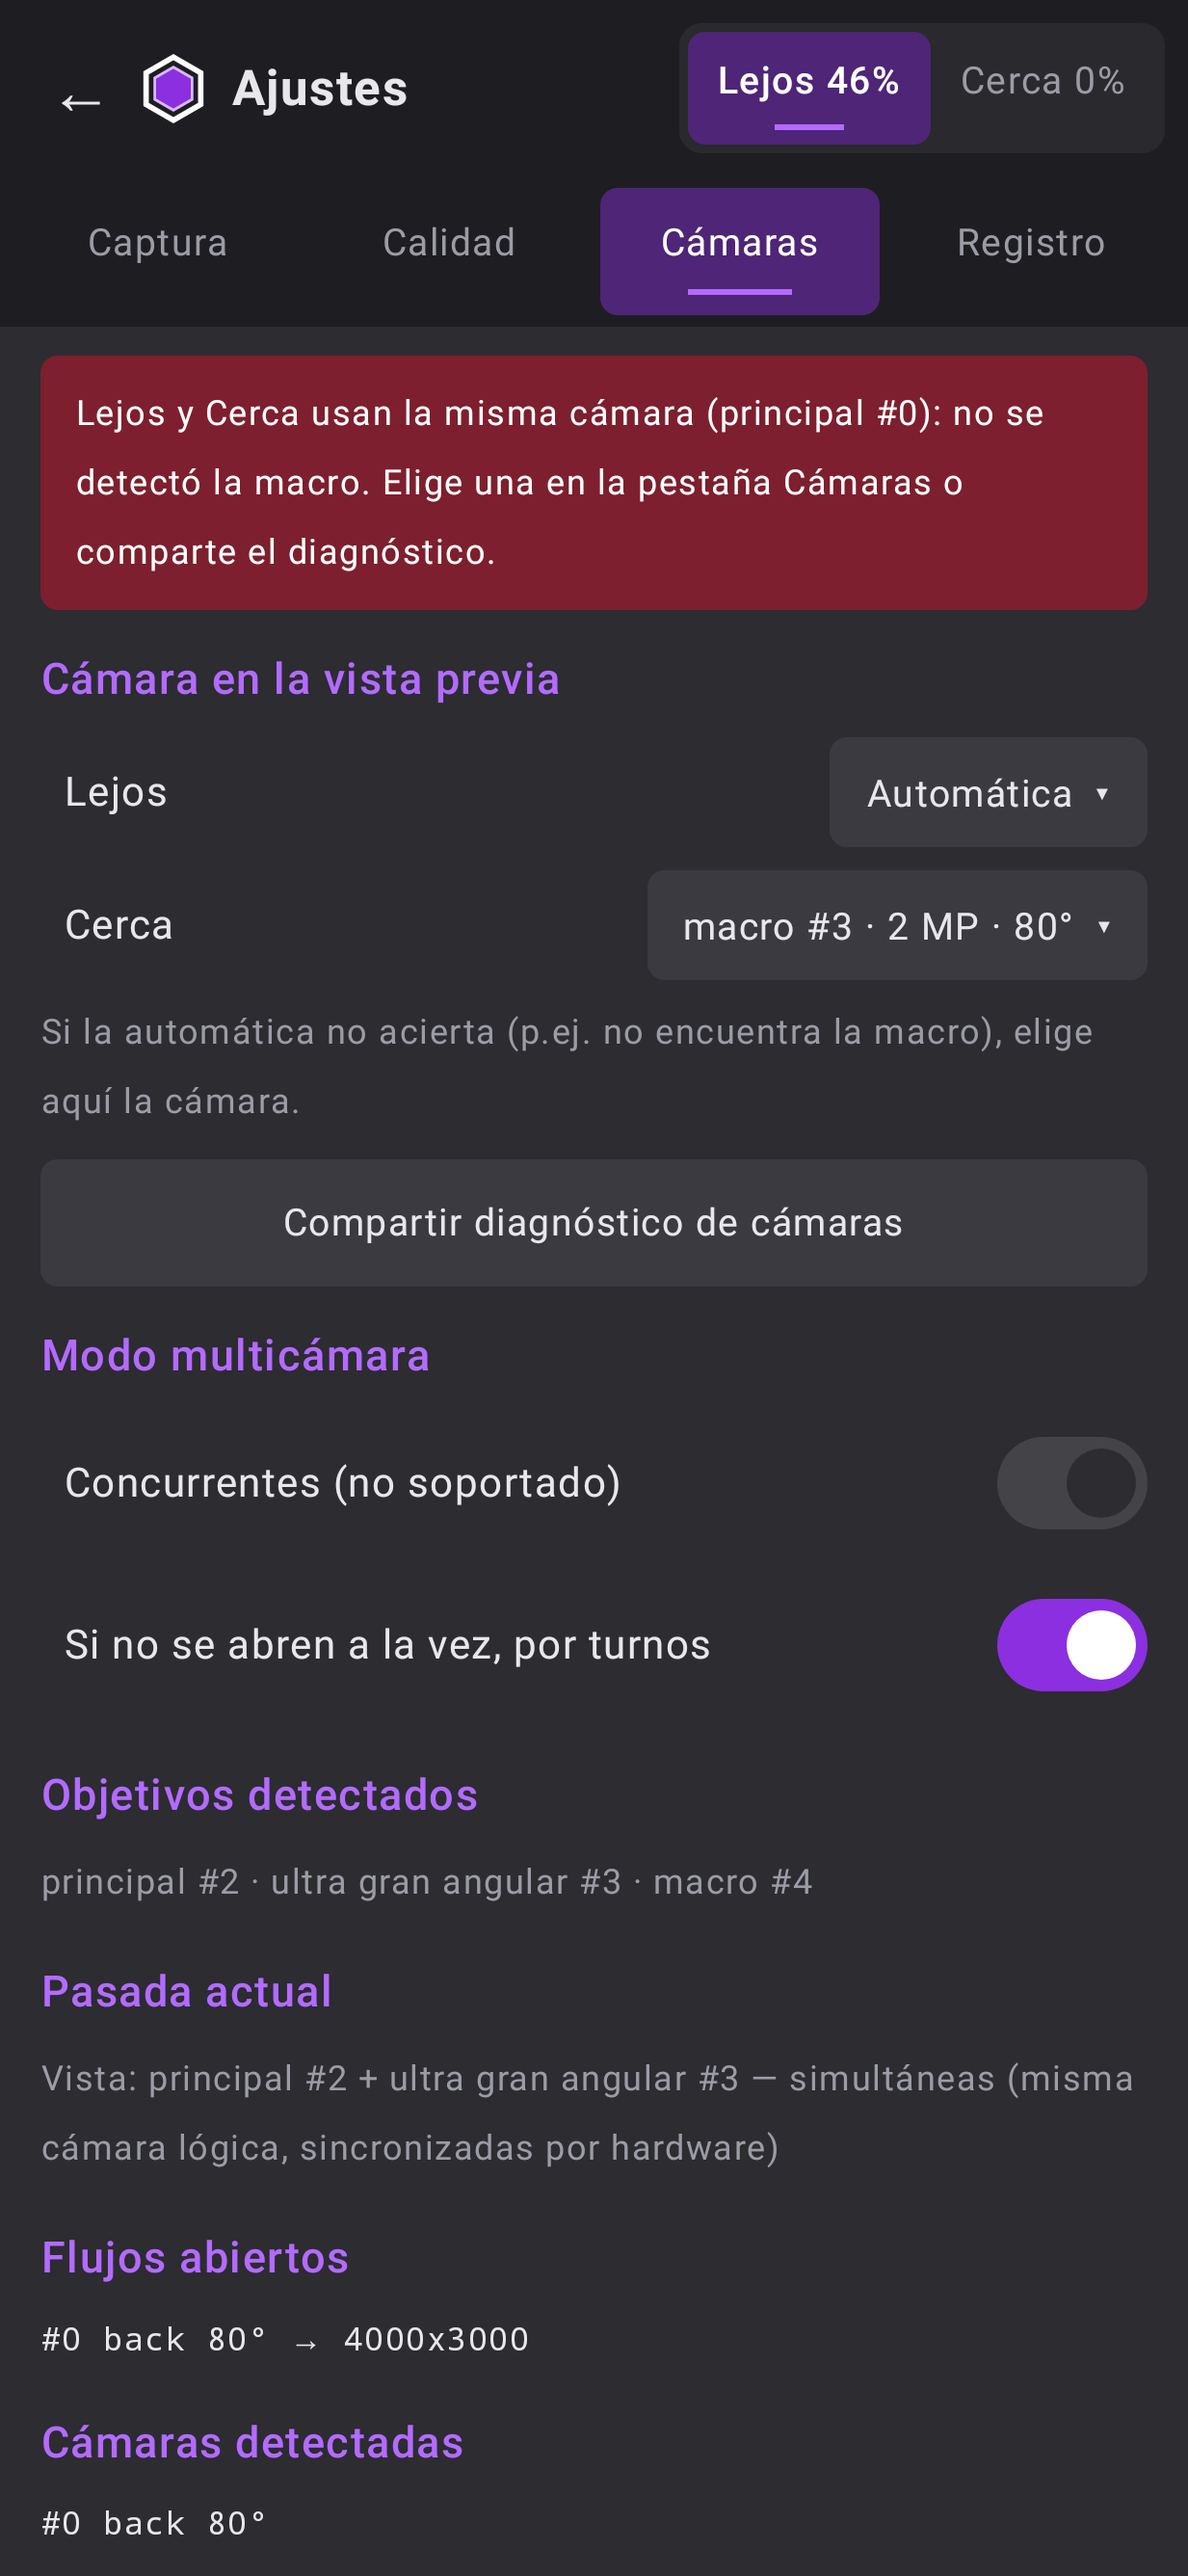
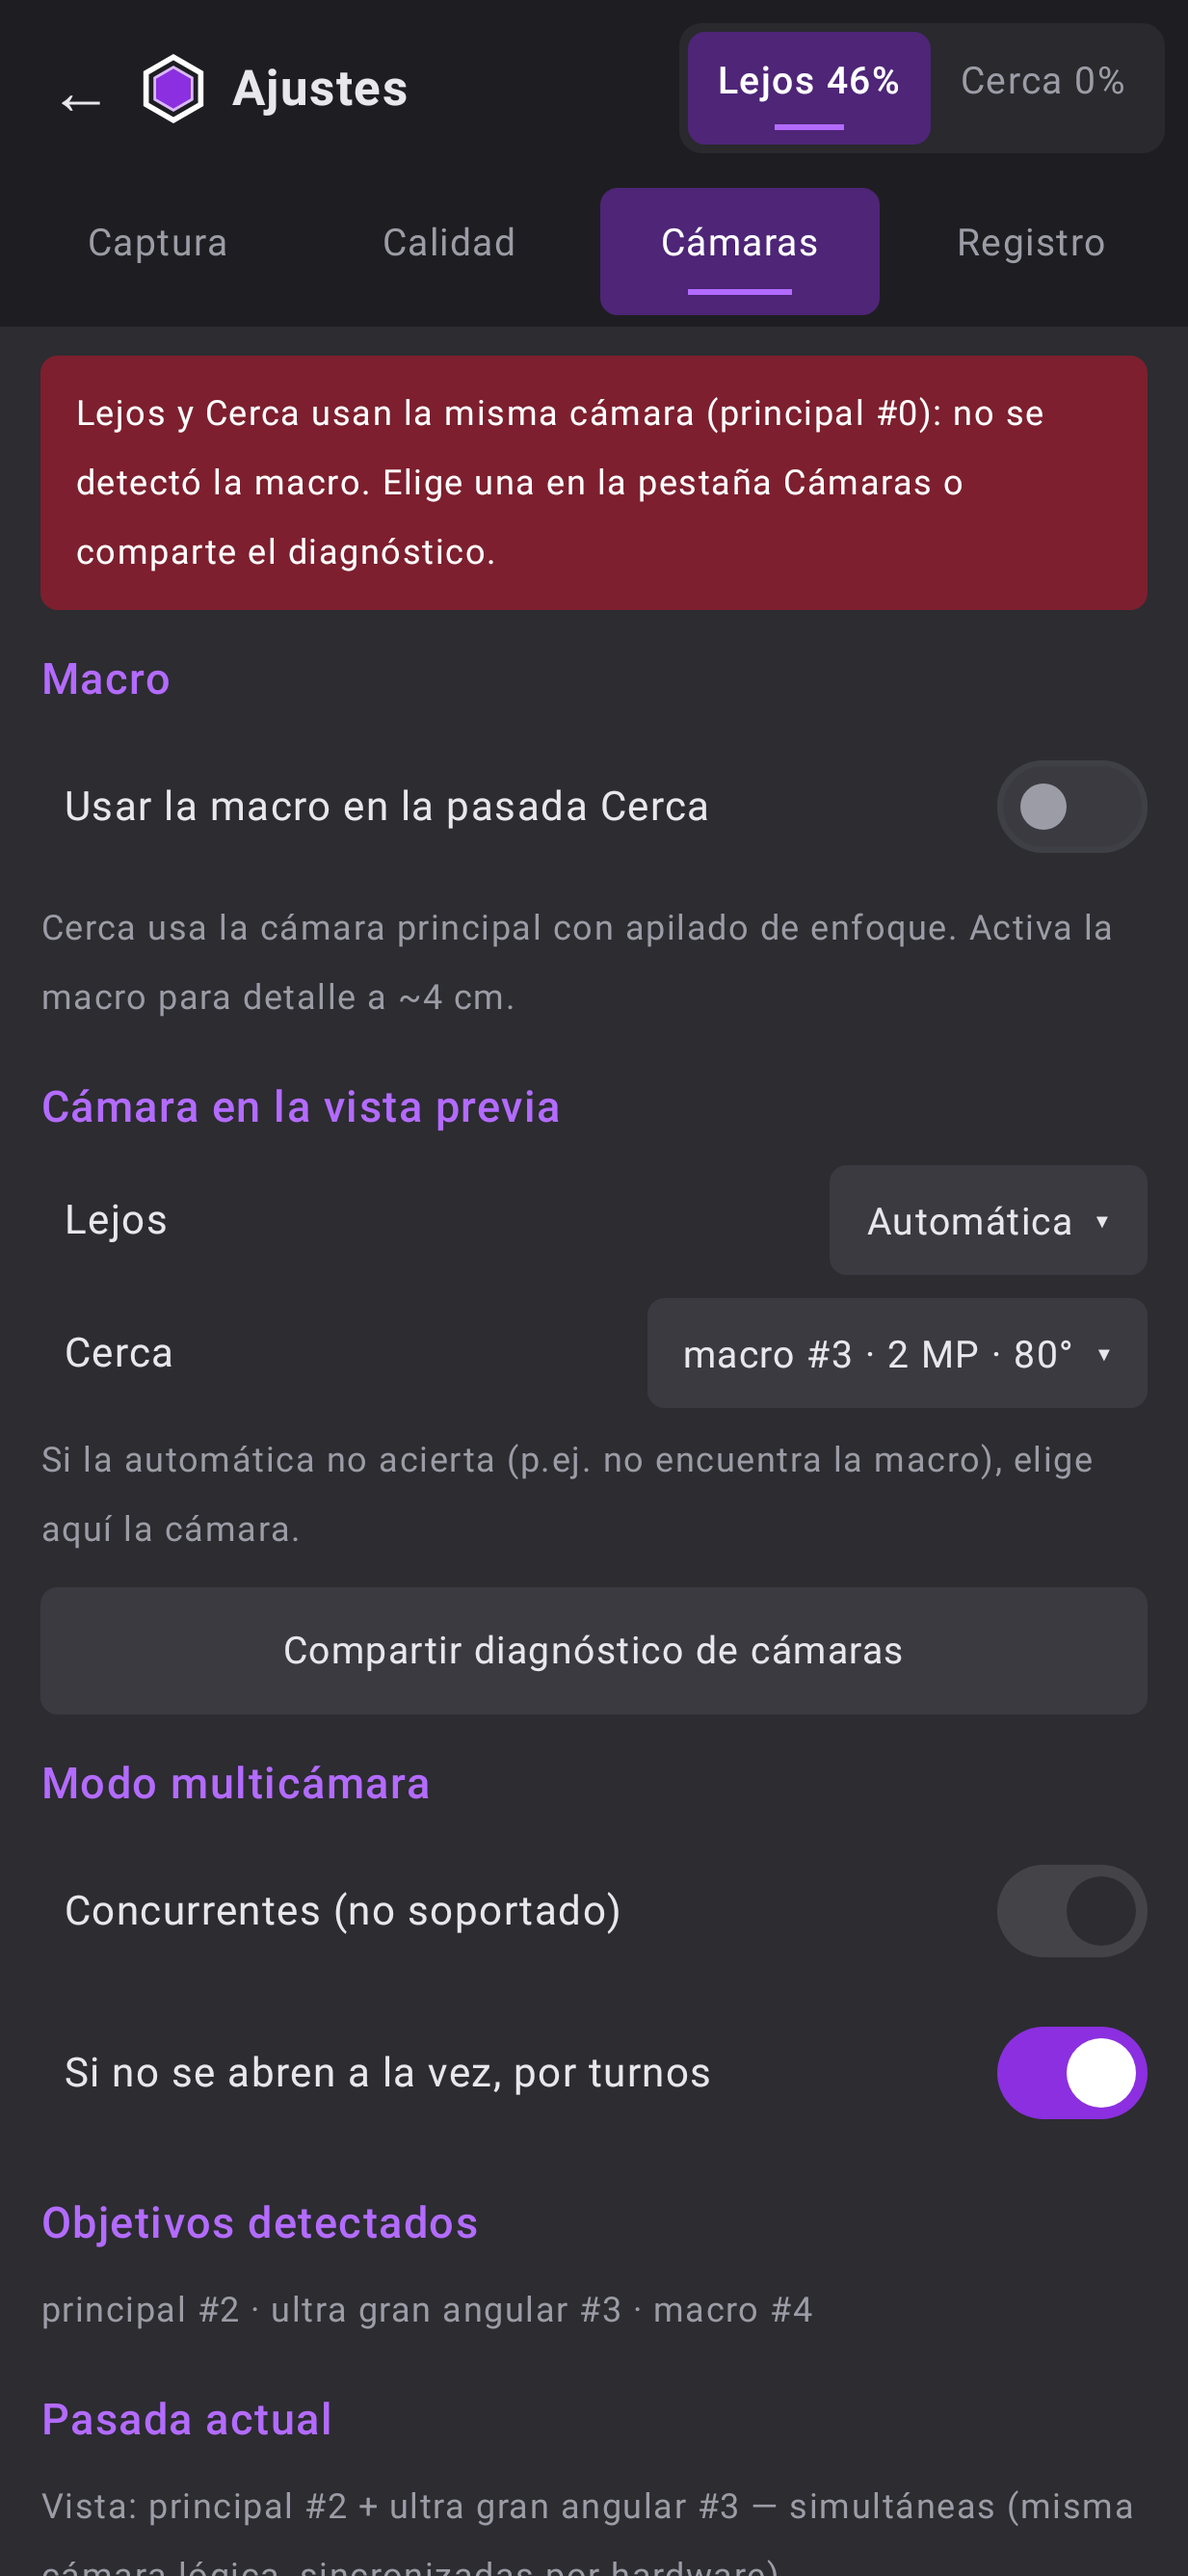
Macro optional (off by default): the near pass uses the main camera
- New setting in Ajustes -> Cámaras 'Usar la macro en la pasada Cerca' (default off)
- Without it, Cerca uses the main camera with focus stacking; with it,
  the macro preview + the main camera firing as before
- No 'both passes use the same camera' warning when the macro is off
- Recorded in session.json (use_macro)

Claude-Session: https://claude.ai/code/session_01QadJfKzbw9ynwc1fqLJ3m8

diff --git a/app/src/main/java/com/tisma/scanner/ui/ScanViewModel.kt b/app/src/main/java/com/tisma/scanner/ui/ScanViewModel.kt
@@ -63,6 +63,8 @@ data class UiState(
     val cameraChoices: List<Pair<String, String>> = emptyList(),
     /** Elección manual de la vista previa por pasada (null = automática). */
     val previewChoice: Map<ScanPass, String?> = emptyMap(),
+    /** Usar la macro en la pasada Cerca (opcional; por defecto Cerca usa la principal). */
+    val useMacro: Boolean = false,
     // --- Precisión de la INS ---
     /** Segundos restantes de la prueba de quietud (0 = no está en marcha). */
     val imuTestRemaining: Int = 0,
@@ -249,10 +251,12 @@ class ScanViewModel(app: Application) : AndroidViewModel(app), MultiCameraContro
 
     /** Papeles con la elección manual aplicada: Lejos cambia la principal, Cerca la macro. */
     private fun rolesFor(p: ScanPass): CameraRoles {
-        val choice = _state.value.previewChoice[p] ?: return roles
+        // Sin la opción de macro, Cerca usa la principal (con apilado de enfoque).
+        val base = if (_state.value.useMacro) roles else roles.copy(macro = null)
+        val choice = _state.value.previewChoice[p] ?: return base
         return when (p) {
-            ScanPass.FAR -> roles.copy(main = choice)
-            ScanPass.CLOSE -> roles.copy(macro = choice)
+            ScanPass.FAR -> base.copy(main = choice)
+            ScanPass.CLOSE -> base.copy(macro = choice)
         }
     }
 
@@ -268,7 +272,8 @@ class ScanViewModel(app: Application) : AndroidViewModel(app), MultiCameraContro
         val other = planFor(if (activePass == ScanPass.FAR) ScanPass.CLOSE else ScanPass.FAR)
         val warning = when {
             plan.previewId == null -> "No se encontró ninguna cámara trasera"
-            plan.previewId == other.previewId ->
+            // Sin macro es lo esperado que ambas pasadas usen la principal.
+            plan.previewId == other.previewId && _state.value.useMacro ->
                 "Lejos y Cerca usan la misma cámara (${roleName(plan.previewId)}): no se detectó " +
                     (if (activePass == ScanPass.CLOSE) "la macro" else "otra cámara") +
                     ". Elige una en la pestaña Cámaras o comparte el diagnóstico."
@@ -277,6 +282,14 @@ class ScanViewModel(app: Application) : AndroidViewModel(app), MultiCameraContro
         _state.update { it.copy(rigText = text, rigWarning = warning) }
         if (warning.isNotEmpty()) log(warning)
         return plan
+    }
+
+    override fun setUseMacro(v: Boolean) {
+        _state.update { it.copy(useMacro = v) }
+        if (!sequenceRunning) {
+            val plan = planCurrentPass()
+            if (activePass == ScanPass.CLOSE) viewModelScope.launch { openRig(plan.groups) }
+        }
     }
 
     /** Elegir a mano qué cámara se ve en una pasada (null = automática). */
@@ -524,6 +537,7 @@ class ScanViewModel(app: Application) : AndroidViewModel(app), MultiCameraContro
                 put("part_depth_cm", _state.value.partDepthCm)
                 put("jpeg_quality", _state.value.jpegQuality)
                 put("discard_blurry", _state.value.discardBlurry)
+                put("use_macro", _state.value.useMacro)
                 put("anti_shake_burst", if (_state.value.antiShakeBurst) ANTI_SHAKE_FRAMES else 0)
                 put("max_motion_blur_px", MAX_MOTION_BLUR_PX)
                 put("min_angle_deg", selector.minAngleDeg)

diff --git a/app/src/main/java/com/tisma/scanner/camera/ScanPass.kt b/app/src/main/java/com/tisma/scanner/camera/ScanPass.kt
@@ -4,8 +4,9 @@ package com.tisma.scanner.camera
  * Pasadas de escaneo. Cada una tiene su propia cobertura, ajustes y cámaras:
  *  - LEJOS: la pieza entera en el encuadre (≈2-3× su tamaño). Da la geometría global y une todo.
  *    Vista: principal; dispara también la ultra gran angular (o la tele si no hay). HDR permitido.
- *  - CERCA: detalle (≈4-20 cm). Vista: sólo la macro; dispara también la principal, que apila
- *    enfoques porque la profundidad de campo es de pocos mm. Sin HDR (serían demasiadas fotos).
+ *  - CERCA: detalle (≈10-20 cm). Por defecto, la principal apilando enfoques (la profundidad de
+ *    campo es de pocos mm). Opcional (ajuste "Usar la macro"): vista de la macro a ~4 cm y la
+ *    principal disparando también. Sin HDR (serían demasiadas fotos).
  * Ver PassRigPlanner.
  */
 enum class ScanPass(val label: String, val minAngleDeg: Double, val hdr: Boolean, val focusStack: Boolean) {

diff --git a/app/src/main/java/com/tisma/scanner/ui/ScanScreen.kt b/app/src/main/java/com/tisma/scanner/ui/ScanScreen.kt
@@ -397,6 +397,10 @@ private fun QualityTab(s: UiState) {
 @Composable
 private fun CamerasTab(s: UiState, vm: ScanActions, onShareText: (String) -> Unit) {
     if (s.rigWarning.isNotEmpty()) Toast(s.rigWarning, error = true)
+    Section("Macro")
+    SettingSwitch("Usar la macro en la pasada Cerca", s.useMacro, enabled = !s.scanning, onChange = vm::setUseMacro)
+    Hint(if (s.useMacro) "Cerca: vista de la macro (foco fijo ~4 cm) + la principal disparando a la vez."
+        else "Cerca usa la cámara principal con apilado de enfoque. Activa la macro para detalle a ~4 cm.")
     Section("Cámara en la vista previa")
     for (p in ScanPass.entries) {
         SettingRow(if (p == ScanPass.FAR) "Lejos" else "Cerca") {

diff --git a/app/src/main/java/com/tisma/scanner/ui/ScanActions.kt b/app/src/main/java/com/tisma/scanner/ui/ScanActions.kt
@@ -27,6 +27,8 @@ interface ScanActions {
     /** Prueba de quietud de 60 s para medir la precisión de la INS. */
     fun runImuStillTest()
     fun setStabilizePreview(v: Boolean)
+    /** Usar la cámara macro en la pasada Cerca. */
+    fun setUseMacro(v: Boolean)
     fun setAntiShakeBurst(v: Boolean)
     /** Transformación de estabilización para un fotograma de la vista previa (o null). */
     fun stabilizePreview(frameTimestampNs: Long, viewW: Int, viewH: Int): com.tisma.scanner.camera.PreviewStabilizer.Transform?

diff --git a/app/src/test/java/com/tisma/scanner/ui/ScanScreenshotTest.kt b/app/src/test/java/com/tisma/scanner/ui/ScanScreenshotTest.kt
@@ -45,6 +45,7 @@ class ScanScreenshotTest {
         override fun diagnostics() = ""
         override fun runImuStillTest() {}
         override fun setStabilizePreview(v: Boolean) {}
+        override fun setUseMacro(v: Boolean) {}
         override fun setAntiShakeBurst(v: Boolean) {}
         override fun stabilizePreview(frameTimestampNs: Long, viewW: Int, viewH: Int) = null
     }

diff --git a/README.md b/README.md
@@ -19,13 +19,12 @@ App Android para **escanear piezas en 3D por fotogrametría**. Combina:
   fotografiados y hacia dónde apunta la cámara. Cada foto se analiza (nitidez, textura,
   exposición), y la app solo dice **"Listo para enviar"** cuando el escaneo merece el cómputo.
 
-- **Pasadas lejos + cerca** con dos cámaras cada una: *Lejos* = vista de la **principal** + la
-  **ultra gran angular** disparando a la vez (geometría global, HDR); *Cerca* = vista **sólo de la
-  macro** + la **principal** disparando a la vez (detalle). La app detecta el papel de cada objetivo
-  (también los ocultos dentro de la cámara lógica) y los combina de la mejor forma que permita el
-  móvil: flujos físicos sincronizados por hardware → cámaras concurrentes → por turnos. El autoenfoque mide la distancia a la pieza; con ella la app
-  calcula la resolución (mm/px) y la profundidad de campo, y en *Cerca* cada disparo es un **apilado
-  de enfoques** con los planos justos para que toda la pieza salga nítida.
+- **Pasadas lejos + cerca**: *Lejos* = vista de la **principal** + la **ultra gran angular**
+  disparando a la vez (geometría global, HDR). *Cerca* = la **principal** apilando enfoques (detalle).
+  La **macro** es opcional (Ajustes → Cámaras): si se activa, *Cerca* muestra sólo la macro y la
+  principal dispara a la vez. La app detecta el papel de cada objetivo, también los ocultos (en
+  el Honor los encuentra probando su número), y los combina de la mejor forma que permita el
+  móvil: flujos físicos sincronizados por hardware → cámaras concurrentes → por turnos.
 - **Descarte de fotos movidas en el propio móvil**: giro medido por el giróscopo durante la exposición
   (> 1,5 px de arrastre), más nitidez relativa. Así no se guardan ni se suben. **JPEG ajustable**
   (92 por defecto) y una herramienta para medir cuánto se puede comprimir sin perder calidad.
